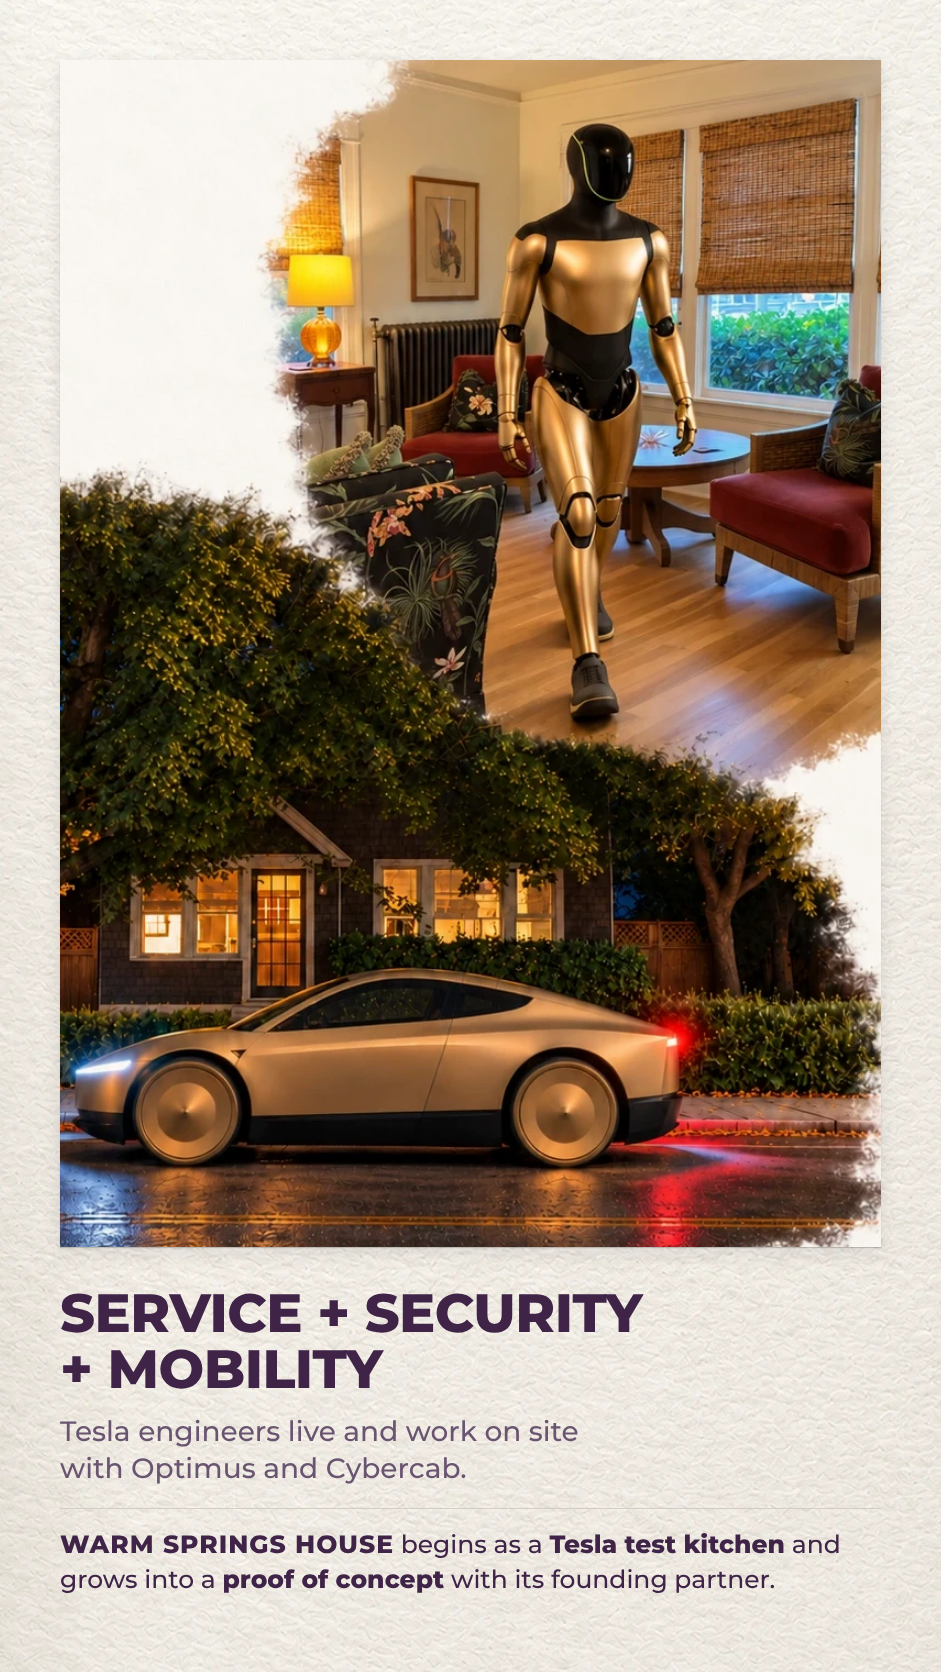
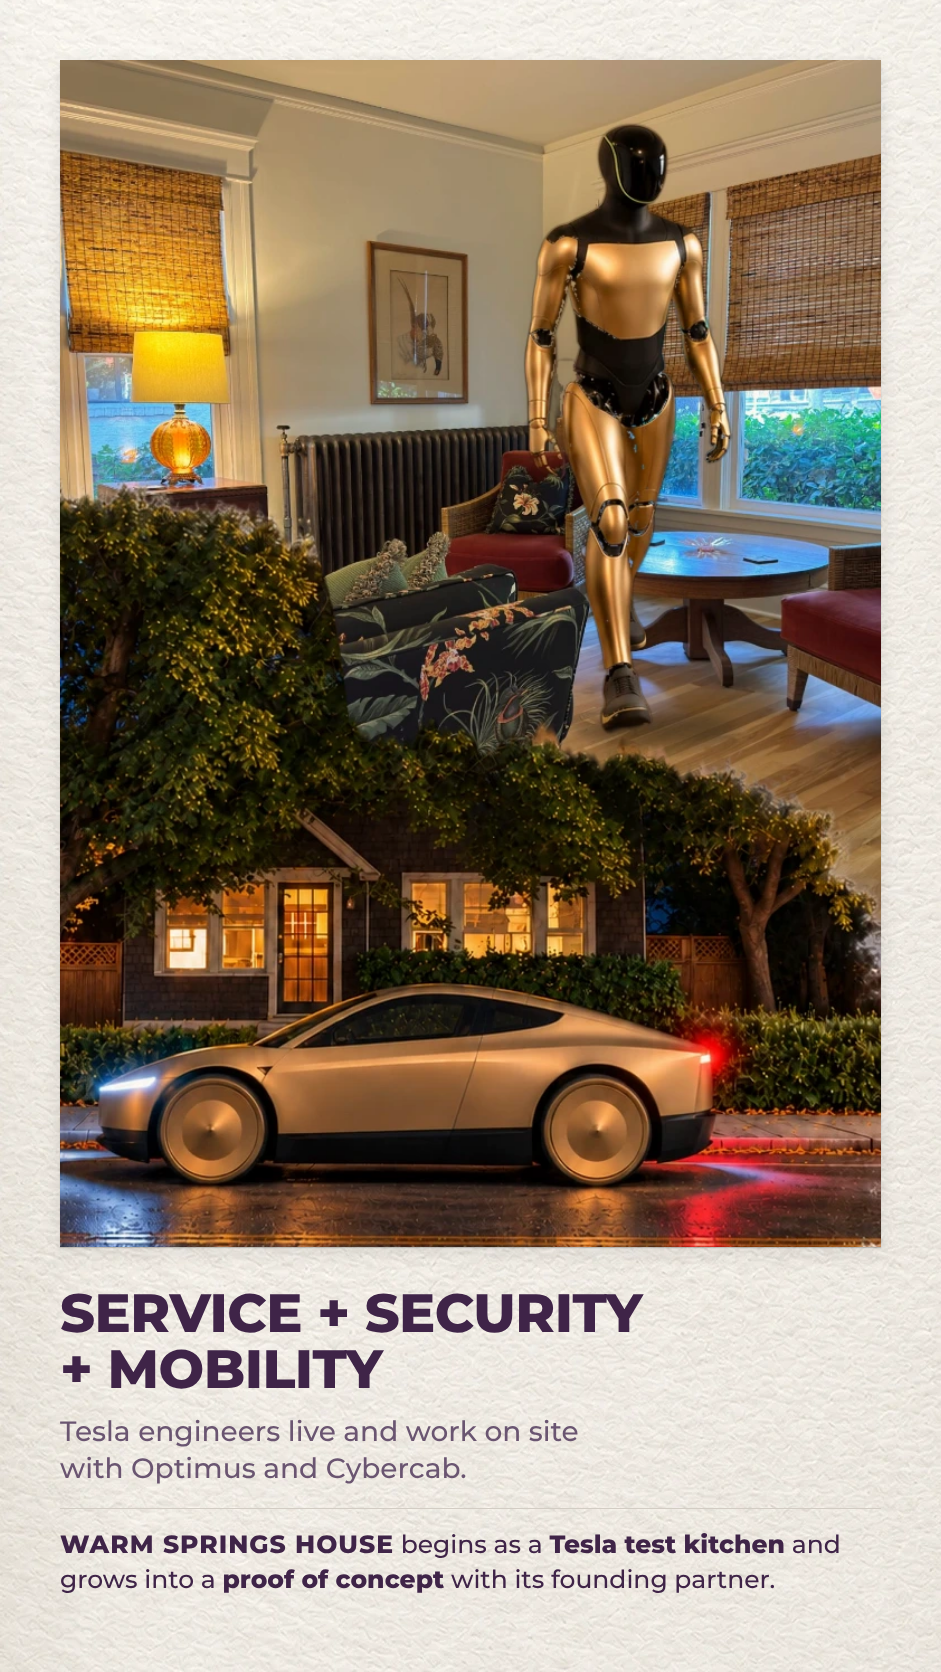
Card 3: extend the real living-room photo across the top
Replaces the white top-left of the Optimus/Cybercab image with the original
room photograph, keeps Optimus (cut out of the artwork) and the street scene,
and cleans the painted fringe along the treeline.

Claude-Session: https://claude.ai/code/session_018mjyHLtRipED1pdLKidqkG

diff --git a/mockups/card3/card3-plain.html b/mockups/card3/card3-plain.html
@@ -6,7 +6,7 @@
 .lab{font-size:15px;letter-spacing:.24em;text-transform:uppercase;color:#6a5571;font-weight:700}
 .col{position:absolute;left:60px;right:60px;top:60px;bottom:76px;display:flex;flex-direction:column;gap:38px}
 .media{flex:1;min-height:0;display:flex}
-.media img{flex:1;min-width:0;object-fit:cover;object-position:18% 50%;box-shadow:0 1px 1px rgba(16,16,16,.18),0 6px 18px rgba(16,16,16,.10)}
+.media img{flex:1;min-width:0;object-fit:cover;object-position:50% 50%;box-shadow:0 1px 1px rgba(16,16,16,.18),0 6px 18px rgba(16,16,16,.10)}
 </style></head><body><div class="card"><div class="col">
 <div class="media" data-m="media"><img src="card3-crop.webp"></div>
 <div data-m="txt">

diff --git a/mockups/card3/compose-room.py b/mockups/card3/compose-room.py
@@ -1,0 +1,41 @@
+import cv2, numpy as np, sys
+# Run from mockups/: python3 card3/compose-room.py 0.56 262  (real room photo + Optimus over the card 3 artwork)
+from PIL import Image
+s=float(sys.argv[1]); oy=float(sys.argv[2])
+art=np.asarray(Image.open('card3/card3.webp').convert('RGB')).astype(np.float32)
+ph=np.asarray(Image.open('card3/livingroom.jpg').convert('RGB'))
+H,W=art.shape[:2]
+ox=120-s*270
+M=np.float32([[s,0,ox],[0,s,oy]])
+pw=cv2.warpAffine(ph,M,(W,H),flags=cv2.INTER_AREA,borderMode=cv2.BORDER_REPLICATE).astype(np.float32)
+valid=cv2.warpAffine(np.ones(ph.shape[:2],np.float32),M,(W,H),flags=cv2.INTER_LINEAR)
+xs=np.array([0,140,240,300,345,365,380,560,640,720,800,941]); ys=np.array([650,668,682,700,712,780,890,900,912,925,935,950])
+B=np.interp(np.arange(W),xs,ys).astype(np.float32)
+rng=np.random.default_rng(7); n=np.zeros(W,np.float32)
+for f,a in [(1/90,9),(1/35,5),(1/12,2.5)]:
+    n+=a*np.sin(np.arange(W)*2*np.pi*f+rng.uniform(0,6.28))
+B=B+n
+yy=np.arange(H,dtype=np.float32)[:,None]; xx=np.arange(W)[None,:]
+alpha=np.clip((B[None,:]-yy)/10.0+0.5,0,1)
+jit=cv2.GaussianBlur(rng.uniform(-1,1,(H,W)).astype(np.float32),(0,0),2.2)*0.9
+alpha=np.where(np.abs(yy-B[None,:])<14,np.clip(alpha+jit,0,1),alpha)
+mn=art.min(axis=2); mx=art.max(axis=2)
+white=np.clip((mn-160)/40.0,0,1)
+haze=np.clip((mn-130)/45.0,0,1)*np.clip(1-(mx-mn-45)/30.0,0,1)
+right=np.clip((mn-110)/40.0,0,1)
+fringe=cv2.GaussianBlur(np.where(xx>=690,np.maximum(np.maximum(white,haze),right),np.maximum(white,haze)).astype(np.float32),(0,0),1.3)
+d=yy-B[None,:]
+near=(d>=-18)&(d<np.where(xx>=700,230,90))
+alpha=np.where(near,np.maximum(alpha,fringe),alpha)*valid
+comp=art*(1-alpha[...,None])+pw*alpha[...,None]
+opt=np.asarray(Image.open('card3/optimus-cutout.png')).astype(np.float32)
+r,g,b=opt[...,0],opt[...,1],opt[...,2]
+opt[...,3]=np.where((r>1.9*g+8)&(r>1.6*b+8),0,opt[...,3]); opt[...,3]=cv2.GaussianBlur(opt[...,3],(0,0),0.6)
+ox0,oy0=430,300; oh,ow=opt.shape[:2]
+sh=np.zeros((H,W),np.float32); cv2.ellipse(sh,(655,888),(72,13),0,0,360,1.0,-1)
+comp*=(1-cv2.GaussianBlur(sh,(0,0),9)[...,None]*0.45)
+oa=opt[...,3:]/255.0
+reg=comp[oy0:oy0+oh,ox0:ox0+ow]; comp[oy0:oy0+oh,ox0:ox0+ow]=reg*(1-oa)+opt[...,:3]*oa
+out=Image.fromarray(comp.clip(0,255).astype('uint8')); out.save('card3/card3-room.webp',quality=94)
+a=np.asarray(out.crop((120,290,858,1352))).astype(float)*np.array([1.0,0.984,0.963])
+Image.fromarray(a.clip(0,255).astype('uint8')).save('card3/card3-crop.webp',quality=93)
